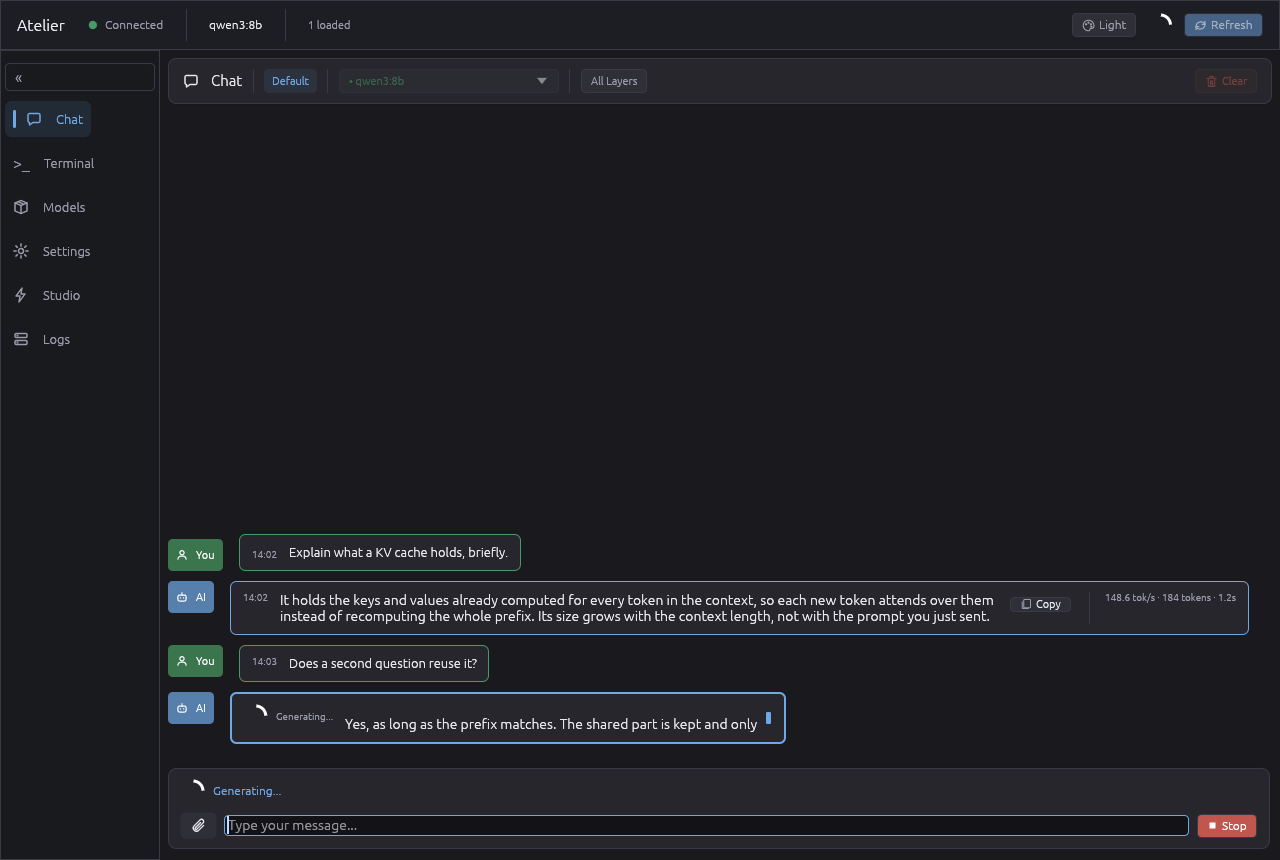
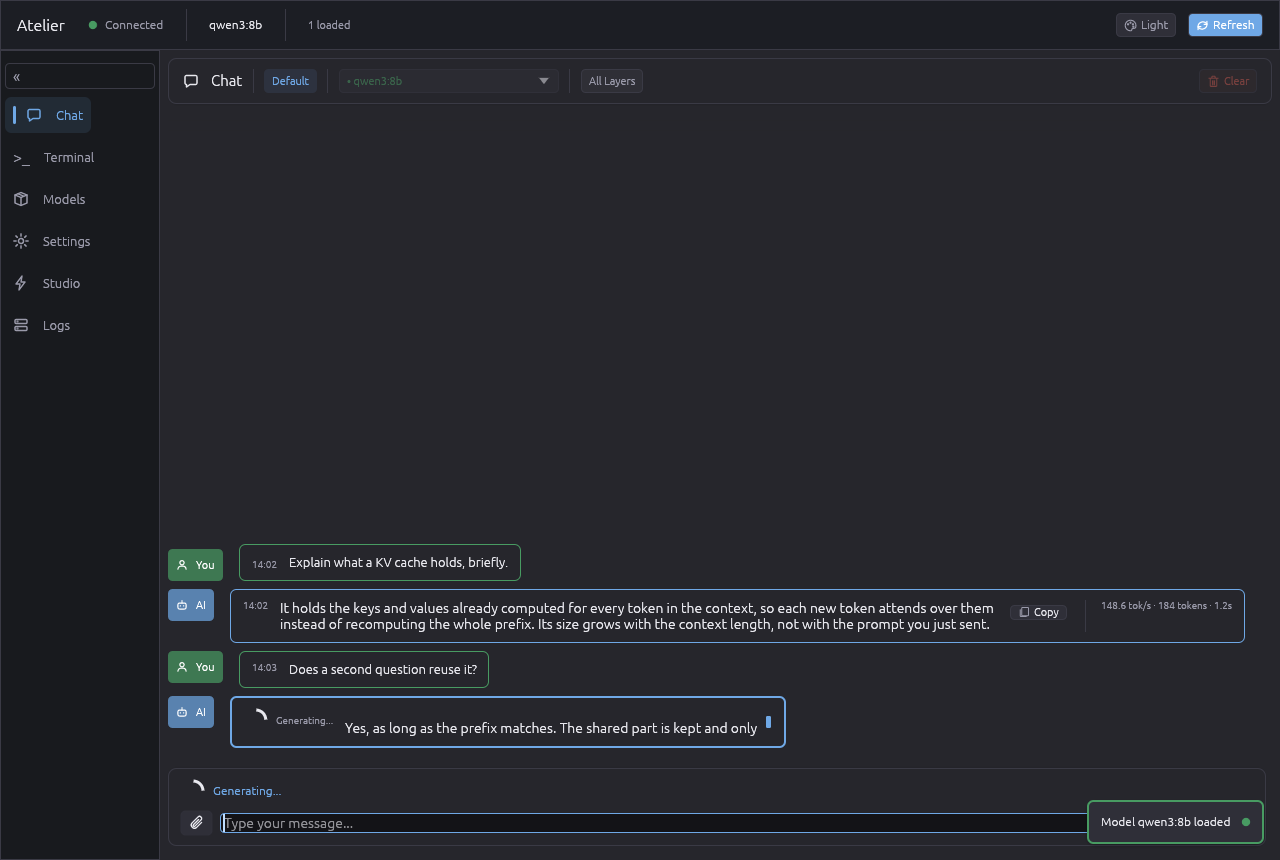
The visuals and the style are derived from the palette
visuals_for() and style_for() build egui's Visuals and Style from one
Palette: panels flat, text fields and rails sunk in the well, buttons on
the raised fill, the accent as a ring on hover and a wash when pressed,
shadows a single hairline, no widget growing under the pointer. The
spacing is an 8 px grid with 24 px controls. The two hand-written theme
functions are gone.

diff --git a/src/theme.rs b/src/theme.rs
@@ -158,15 +158,6 @@ pub const ICON_EMPTY: &str = "\u{25CB}";    // white circle (status: inactive/di
 
 // Palette fields under their former names. Call sites that branch on the
 // theme themselves read these; they collapse onto the accessors above.
-pub mod dark {
-    use super::{Color32, DARK};
-    pub const BG: Color32 = DARK.bg;
-    pub const SURFACE: Color32 = DARK.panel;
-    pub const SURFACE_ELEVATED: Color32 = DARK.raised;
-    pub const BORDER: Color32 = DARK.border;
-    pub const TEXT: Color32 = DARK.ink;
-}
-
 pub mod light {
     use super::{Color32, LIGHT};
     pub const BG: Color32 = LIGHT.bg;
@@ -192,134 +183,110 @@ pub const RADIUS: CornerRadius = CornerRadius::same(RADIUS_PX);
 // Theme Application
 // ============================================================================
 
-/// Build the matching egui `Visuals` for `dark` and install them on `ctx`.
+/// Stroke width of every border, rule and ring.
+pub const HAIRLINE: f32 = 1.0;
+
+/// Alpha of the accent wash under a selection.
+const SELECTION_A: u8 = 90;
+
+/// Alpha of the accent wash on a pressed widget.
+const ACTIVE_WASH_A: u8 = 60;
+
+/// Strength of the focus ring on hover; the full ring appears when pressed.
+const FOCUS_RING_HOVER_GAMMA: f32 = 0.5;
+
+/// Gap between widgets, horizontally, and the padding inside a button.
+pub const GAP_WIDGETS: f32 = 8.0;
+
+/// Gap between a control and its label, and the vertical pitch of a form.
+pub const GAP_LABEL: f32 = 4.0;
+
+/// Height of every interactive control.
+pub const CONTROL_H: f32 = 24.0;
+
+/// Width sliders and combos share so form columns line up.
+pub const FORM_CONTROL_W: f32 = 240.0;
+
+/// Thickness of a slider rail.
+const SLIDER_RAIL_H: f32 = 4.0;
+
+/// Padding inside windows and menus.
+const PANEL_PADDING: i8 = 8;
+
+/// Build the egui visuals and style for `dark` and install them on `ctx`.
 /// Records the active skin for `palette()`.
 pub fn apply(ctx: &egui::Context, dark: bool) {
-    let mut visuals = if dark {
-        egui::Visuals::dark()
-    } else {
-        egui::Visuals::light()
-    };
-    if dark {
-        apply_dark_theme(&mut visuals);
-    } else {
-        apply_light_theme(&mut visuals);
+    let p = if dark { &DARK } else { &LIGHT };
+    DARK_ACTIVE.store(dark, Ordering::Relaxed);
+    ctx.set_visuals(visuals_for(p));
+    ctx.all_styles_mut(|style| style_for(p, style));
+}
+
+/// One widget state: a fill, a weaker fill for buttons, a border and an ink.
+/// No expansion, so nothing grows under the pointer.
+fn wv(bg_fill: Color32, weak_bg_fill: Color32, bg_stroke: Color32, fg: Color32) -> egui::style::WidgetVisuals {
+    egui::style::WidgetVisuals {
+        bg_fill,
+        weak_bg_fill,
+        bg_stroke: Stroke::new(HAIRLINE, bg_stroke),
+        corner_radius: RADIUS,
+        fg_stroke: Stroke::new(HAIRLINE, fg),
+        expansion: 0.0,
     }
-    DARK_ACTIVE.store(dark, std::sync::atomic::Ordering::Relaxed);
-    ctx.set_visuals(visuals);
-
-    // Global ergonomics: uniform control sizes and breathing room. Sliders
-    // and combos share one width so every form column lines up; buttons get
-    // real padding (comfortable click targets); vertical rhythm is airier
-    // than egui's compact default.
-    ctx.all_styles_mut(|style| {
-        // Filled slider span (rail start -> handle) in the accent color:
-        // makes a slider's range and current value legible at a glance.
-        style.visuals.slider_trailing_fill = true;
-        style.spacing.item_spacing = egui::vec2(8.0, 6.0);
-        style.spacing.button_padding = egui::vec2(10.0, 5.0);
-        style.spacing.interact_size.y = 24.0;
-        style.spacing.slider_width = 240.0;
-        style.spacing.combo_width = 240.0;
-    });
 }
 
-/// Apply professional dark theme
-pub fn apply_dark_theme(visuals: &mut egui::Visuals) {
-    visuals.window_fill = dark::BG;
-    visuals.panel_fill = dark::BG;
-    visuals.faint_bg_color = dark::SURFACE;
-
-    // Text fields and code wells sit in a visibly RECESSED background. Given the
-    // same fill as the card around them, their bounds disappear.
-    visuals.extreme_bg_color = DARK.well;
-
-    // Widgets. Three distinct fills so every control reads against a SURFACE
-    // card: rails/checkbox wells are recessed (bg_fill), buttons are raised
-    // (weak_bg_fill = SURFACE_ELEVATED), and everything gets a 1 px border
-    // (bg_stroke) so starts/ends of sliders and field bounds are explicit.
-    visuals.widgets.noninteractive.bg_fill = dark::SURFACE;
-    visuals.widgets.noninteractive.fg_stroke = Stroke::new(1.0, dark::TEXT);
-    visuals.widgets.noninteractive.weak_bg_fill = dark::SURFACE;
-    visuals.widgets.noninteractive.bg_stroke = Stroke::new(1.0, dark::BORDER);
-
-    visuals.widgets.inactive.bg_fill = DARK.well;
-    visuals.widgets.inactive.fg_stroke = Stroke::new(1.0, dark::TEXT);
-    visuals.widgets.inactive.weak_bg_fill = dark::SURFACE_ELEVATED;
-    visuals.widgets.inactive.bg_stroke = Stroke::new(1.0, dark::BORDER);
-    visuals.widgets.inactive.corner_radius = RADIUS;
-
-    visuals.widgets.hovered.bg_fill = dark::SURFACE_ELEVATED;
-    visuals.widgets.hovered.fg_stroke = Stroke::new(1.5, DARK.accent);
-    visuals.widgets.hovered.weak_bg_fill = dark::SURFACE_ELEVATED;
-    visuals.widgets.hovered.bg_stroke = Stroke::new(1.0, DARK.accent);
-    visuals.widgets.hovered.corner_radius = RADIUS;
-
-    visuals.widgets.active.bg_fill = DARK.accent;
-    visuals.widgets.active.fg_stroke = Stroke::new(2.0, Color32::WHITE);
-    visuals.widgets.active.weak_bg_fill = DARK.accent;
-    visuals.widgets.active.corner_radius = RADIUS;
-
-    visuals.widgets.open.bg_fill = dark::SURFACE_ELEVATED;
-    visuals.widgets.open.fg_stroke = Stroke::new(1.0, DARK.accent);
-    visuals.widgets.open.corner_radius = RADIUS;
-
-    // Selection + the slider's filled span (trailing fill, enabled in
-    // apply()): SOLID accent - a translucent tint washed out against the rail
-    // and made the filled span hard to see.
-    visuals.selection.bg_fill = Color32::from_rgb(70, 120, 175);
-    visuals.selection.stroke = Stroke::new(1.0, DARK.accent);
-
-    visuals.window_stroke = Stroke::new(1.0, dark::BORDER);
-    visuals.window_corner_radius = RADIUS;
-    visuals.menu_corner_radius = RADIUS;
-    visuals.striped = true;
+/// A one-pixel shadow under a lip; never a blur.
+fn hairline_shadow(p: &Palette) -> egui::epaint::Shadow {
+    egui::epaint::Shadow {
+        offset: [0, 1],
+        blur: 0,
+        spread: 0,
+        color: Color32::from_black_alpha(p.lip_shadow_a),
+    }
 }
 
-/// Apply professional light theme
-pub fn apply_light_theme(visuals: &mut egui::Visuals) {
-    visuals.window_fill = light::BG;
-    visuals.panel_fill = light::BG;
-    // Recessed wells for text fields (visible bounds on white cards).
-    visuals.extreme_bg_color = LIGHT.well;
-    visuals.faint_bg_color = light::SURFACE_ELEVATED;
+/// The egui visuals of one skin. Panels are flat, text fields and rails are
+/// sunk in the well, buttons stand on the raised fill, and the accent appears
+/// as a ring on hover and a wash when pressed.
+pub fn visuals_for(p: &Palette) -> egui::Visuals {
+    let mut v = if p.dark { egui::Visuals::dark() } else { egui::Visuals::light() };
+    v.panel_fill = p.panel;
+    v.window_fill = p.panel;
+    v.extreme_bg_color = p.well;
+    v.text_edit_bg_color = Some(p.well);
+    v.code_bg_color = p.well;
+    v.faint_bg_color = p.raised;
+    v.window_stroke = Stroke::new(HAIRLINE, p.border);
+    v.window_corner_radius = RADIUS;
+    v.menu_corner_radius = RADIUS;
+    v.window_shadow = hairline_shadow(p);
+    v.popup_shadow = hairline_shadow(p);
+    v.selection.bg_fill = tinted(p.accent, SELECTION_A);
+    v.selection.stroke = Stroke::new(HAIRLINE, p.accent);
+    v.hyperlink_color = p.accent;
+    v.warn_fg_color = p.warning;
+    v.error_fg_color = p.error;
+    v.widgets.noninteractive = wv(p.panel, p.panel, p.border, p.ink);
+    v.widgets.inactive = wv(p.well, p.raised, p.border, p.ink);
+    v.widgets.hovered = wv(p.raised, p.raised, p.accent.gamma_multiply(FOCUS_RING_HOVER_GAMMA), p.ink);
+    let wash = tinted(p.accent, ACTIVE_WASH_A);
+    v.widgets.active = wv(wash, wash, p.accent, p.ink);
+    v.widgets.open = wv(p.raised, p.raised, p.accent, p.ink);
+    v.striped = true;
+    v.slider_trailing_fill = true;
+    v
+}
 
-    // Widgets - same three-level scheme as dark: recessed rails, raised
-    // buttons, explicit 1 px borders.
-    visuals.widgets.noninteractive.bg_fill = light::SURFACE;
-    visuals.widgets.noninteractive.fg_stroke = Stroke::new(1.0, light::TEXT);
-    visuals.widgets.noninteractive.weak_bg_fill = light::SURFACE;
-    visuals.widgets.noninteractive.bg_stroke = Stroke::new(1.0, light::BORDER);
-
-    visuals.widgets.inactive.bg_fill = LIGHT.well;
-    visuals.widgets.inactive.fg_stroke = Stroke::new(1.0, light::TEXT);
-    visuals.widgets.inactive.weak_bg_fill = light::SURFACE_ELEVATED;
-    visuals.widgets.inactive.bg_stroke = Stroke::new(1.0, light::BORDER);
-    visuals.widgets.inactive.corner_radius = RADIUS;
-
-    visuals.widgets.hovered.bg_fill = light::SURFACE_ELEVATED;
-    visuals.widgets.hovered.fg_stroke = Stroke::new(1.5, LIGHT.accent);
-    visuals.widgets.hovered.weak_bg_fill = light::SURFACE_ELEVATED;
-    visuals.widgets.hovered.bg_stroke = Stroke::new(1.0, LIGHT.accent);
-    visuals.widgets.hovered.corner_radius = RADIUS;
-
-    visuals.widgets.active.bg_fill = LIGHT.accent;
-    visuals.widgets.active.fg_stroke = Stroke::new(2.0, Color32::WHITE);
-    visuals.widgets.active.weak_bg_fill = LIGHT.accent;
-    visuals.widgets.active.corner_radius = RADIUS;
-
-    visuals.widgets.open.bg_fill = light::SURFACE_ELEVATED;
-    visuals.widgets.open.fg_stroke = Stroke::new(1.0, LIGHT.accent);
-    visuals.widgets.open.corner_radius = RADIUS;
-
-    // Selection + slider trailing span: solid accent (see dark theme note).
-    visuals.selection.bg_fill = Color32::from_rgb(65, 125, 190);
-    visuals.selection.stroke = Stroke::new(1.0, LIGHT.accent);
-
-    visuals.window_stroke = Stroke::new(1.0, light::BORDER);
-    visuals.window_corner_radius = RADIUS;
-    visuals.menu_corner_radius = RADIUS;
-    visuals.striped = true;
+/// The spacing of one skin: an 8 px grid, 24 px controls, one form width.
+pub fn style_for(_p: &Palette, style: &mut egui::Style) {
+    style.spacing.item_spacing = egui::vec2(GAP_WIDGETS, GAP_LABEL);
+    style.spacing.button_padding = egui::vec2(GAP_WIDGETS, GAP_LABEL);
+    style.spacing.interact_size.y = CONTROL_H;
+    style.spacing.slider_width = FORM_CONTROL_W;
+    style.spacing.combo_width = FORM_CONTROL_W;
+    style.spacing.slider_rail_height = SLIDER_RAIL_H;
+    style.spacing.window_margin = egui::Margin::same(PANEL_PADDING);
+    style.spacing.menu_margin = egui::Margin::same(PANEL_PADDING);
 }
 
 #[cfg(test)]
@@ -514,5 +481,20 @@ mod tests {
     fn status_icon_glyphs_are_single_chars() {
         assert_eq!(ICON_FILLED.chars().count(), 1, "ICON_FILLED must be 1 char");
         assert_eq!(ICON_EMPTY.chars().count(),  1, "ICON_EMPTY must be 1 char");
+    }
+
+    #[test]
+    fn apply_installs_the_palette() {
+        let ctx = egui::Context::default();
+        apply(&ctx, false);
+        assert!(!is_dark());
+        assert_eq!(ctx.global_style().visuals.panel_fill, LIGHT.panel);
+        assert_eq!(ctx.global_style().visuals.extreme_bg_color, LIGHT.well);
+        assert_eq!(ctx.global_style().spacing.interact_size.y, CONTROL_H);
+        apply(&ctx, true);
+        assert!(is_dark());
+        assert_eq!(ctx.global_style().visuals.panel_fill, DARK.panel);
+        assert_eq!(ctx.global_style().visuals.extreme_bg_color, DARK.well);
+        assert_eq!(ctx.global_style().visuals.widgets.hovered.expansion, 0.0);
     }
 }
